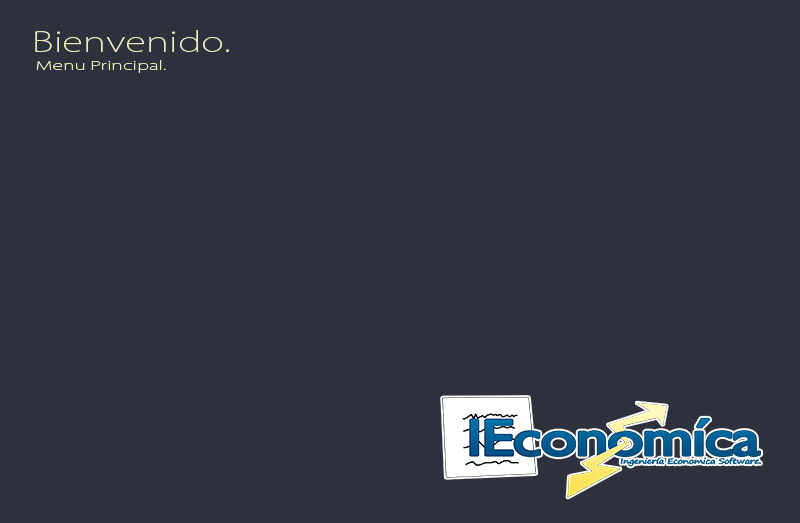
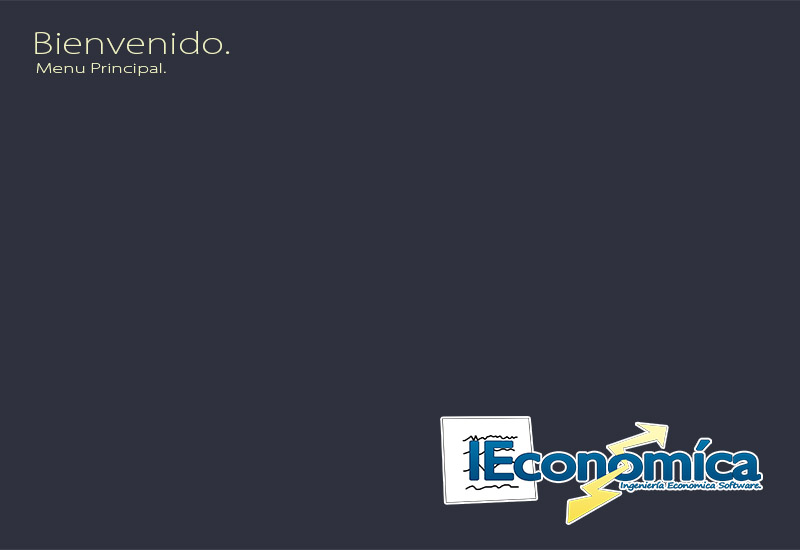
Ultimos detalles de validacion
Casi listo!

Changed region(s): [[0.5625, 0.7648, 0.9688, 0.9484], [0.0312, 0.0612, 0.2812, 0.153], [0.5625, 0.7342, 0.6562, 0.7648]]

diff --git a/src/Formularios/FormPrincipal.java b/src/Formularios/FormPrincipal.java
@@ -82,10 +82,6 @@ public class FormPrincipal extends javax.swing.JFrame {
         BotonFdeA = new javax.swing.JButton();
         btnInterpolacion = new javax.swing.JButton();
         jLabel1 = new javax.swing.JLabel();
-        jMenuBar1 = new javax.swing.JMenuBar();
-        jMenu1 = new javax.swing.JMenu();
-        jMenu2 = new javax.swing.JMenu();
-        jMenuItem1 = new javax.swing.JMenuItem();
 
         setDefaultCloseOperation(javax.swing.WindowConstants.EXIT_ON_CLOSE);
         setTitle("Ingenieria Economica");
@@ -261,23 +257,7 @@ public class FormPrincipal extends javax.swing.JFrame {
 
         jLabel1.setIcon(new javax.swing.ImageIcon(getClass().getResource("/Imagenes/Principal.jpg"))); // NOI18N
         getContentPane().add(jLabel1);
-        jLabel1.setBounds(0, 0, 800, 530);
-
-        jMenuBar1.setBackground(new java.awt.Color(51, 51, 51));
-        jMenuBar1.setBorder(null);
-        jMenuBar1.setCursor(new java.awt.Cursor(java.awt.Cursor.DEFAULT_CURSOR));
-
-        jMenu1.setText("Archivo");
-        jMenuBar1.add(jMenu1);
-
-        jMenu2.setText("Herramientas del Sistema");
-
-        jMenuItem1.setText("Graficadora Flujo de Efectivo");
-        jMenu2.add(jMenuItem1);
-
-        jMenuBar1.add(jMenu2);
-
-        setJMenuBar(jMenuBar1);
+        jLabel1.setBounds(0, 0, 800, 550);
 
         java.awt.Dimension screenSize = java.awt.Toolkit.getDefaultToolkit().getScreenSize();
         setBounds((screenSize.width-815)/2, (screenSize.height-585)/2, 815, 585);
@@ -390,9 +370,5 @@ public class FormPrincipal extends javax.swing.JFrame {
     private javax.swing.JLabel jLabel7;
     private javax.swing.JLabel jLabel8;
     private javax.swing.JLabel jLabel9;
-    private javax.swing.JMenu jMenu1;
-    private javax.swing.JMenu jMenu2;
-    private javax.swing.JMenuBar jMenuBar1;
-    private javax.swing.JMenuItem jMenuItem1;
     // End of variables declaration//GEN-END:variables
 }

diff --git a/src/Formularios/Gradientes.java b/src/Formularios/Gradientes.java
@@ -1,5 +1,7 @@
 package Formularios;
 
+import java.awt.event.KeyAdapter;
+import java.awt.event.KeyEvent;
 import javax.swing.JComboBox;
 import javax.swing.JFrame;
 import javax.swing.JOptionPane;
@@ -33,6 +35,25 @@ void borrarCasillas()
     cmbA2.setSelectedItem("1");
     cmbA3.setSelectedItem("1");
 }
+
+//CAJAS DE TEXTO SOLO NUMEROS
+    public void sNumeros(JTextField a)
+    {
+      a.addKeyListener(new KeyAdapter() {
+         public void keyTyped(KeyEvent e){
+               char c = e.getKeyChar();
+               
+               if(!Character.isDigit(c))
+               {
+                   getToolkit().beep();
+                   e.consume();
+                }
+         }
+     
+      });
+      
+    
+    } //Fin sNumeros
   
     @SuppressWarnings("unchecked")
     // <editor-fold defaultstate="collapsed" desc="Generated Code">//GEN-BEGIN:initComponents

diff --git a/src/Formularios/ValidarNum.java b/src/Formularios/ValidarNum.java
@@ -1,0 +1,27 @@
+package Formularios;
+import java.awt.event.KeyAdapter;
+import java.awt.event.KeyEvent;
+import javax.swing.JTextField;
+
+
+public class ValidarNum {
+
+      //CAJAS DE TEXTO SOLO NUMEROS
+    public void sNumeros(JTextField a)
+    {
+      a.addKeyListener(new KeyAdapter() {
+         public void keyTyped(KeyEvent e){
+               char c = e.getKeyChar();
+               
+               if(!Character.isDigit(c))
+               {
+                   //getToolkit().beep();
+                   e.consume();
+                }
+         }
+     
+      });
+      
+    
+    } //Fin sNumeros
+}
